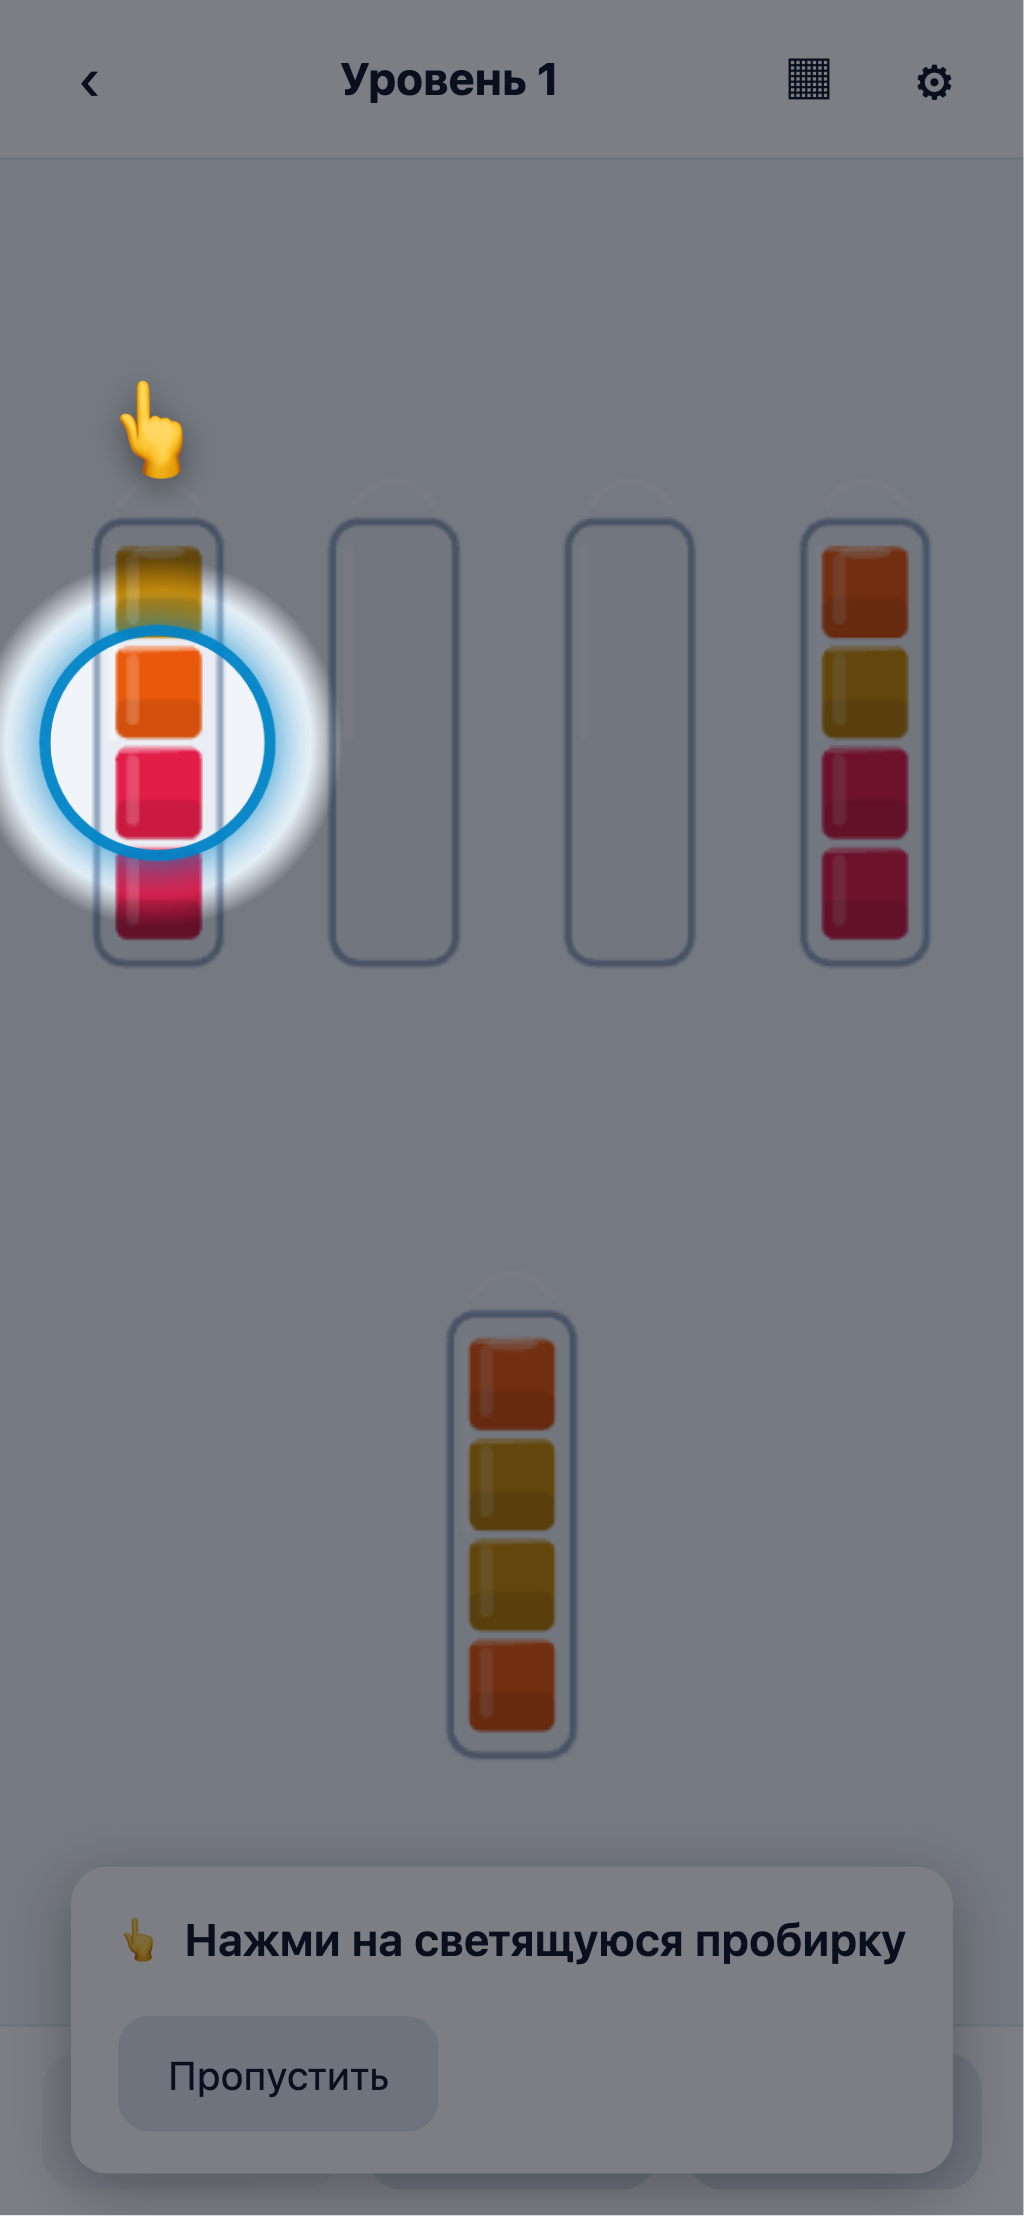
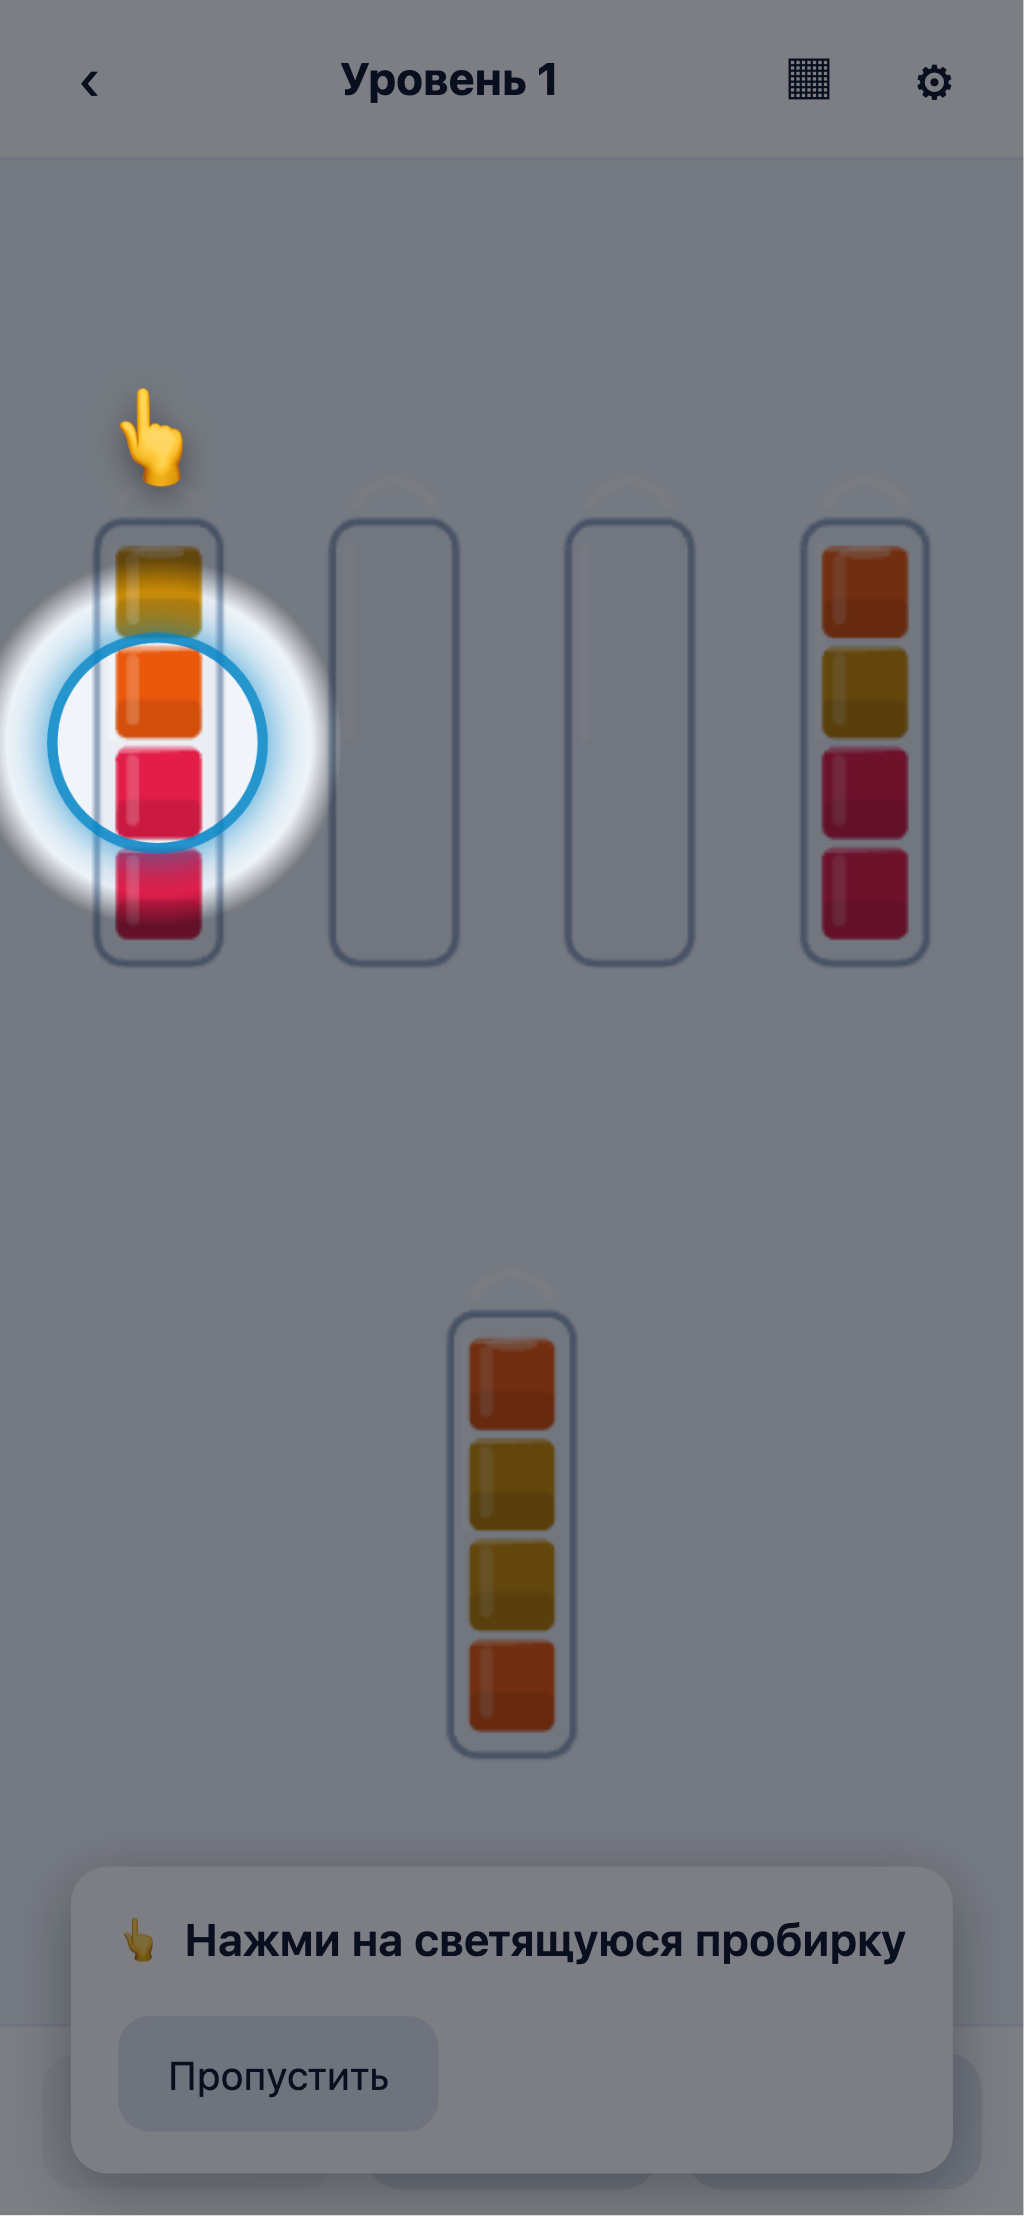
Per-unit pour animation (no teleport) + tap-during-animation queue chaining

Changed region(s): [[0.0, 0.2491, 0.2812, 0.4048], [0.125, 0.1868, 0.1875, 0.218]]

diff --git a/tests/e2e/queue-pour.spec.ts b/tests/e2e/queue-pour.spec.ts
@@ -1,0 +1,176 @@
+import { expect, test, type Page } from '@playwright/test';
+import { keyFor, mg, waitForGame } from './helpers';
+
+interface Dbg {
+  selected: number | null;
+  animating: boolean;
+  stage: string;
+  queued: { from: number; to: number } | null;
+  audit: { srcVisible: boolean; srcInBounds: boolean; streamOn: boolean } | null;
+}
+
+async function dbg(page: Page): Promise<Dbg> {
+  return page.evaluate(() => {
+    const g = (window as unknown as { __MG: { dbg: () => never } }).__MG;
+    return (g.dbg as unknown as () => Dbg)();
+  });
+}
+
+async function setup(page: Page): Promise<void> {
+  await page.goto('/');
+  await page.locator('.game-card .btn.primary').click();
+  await waitForGame(page, 1);
+  await page.locator('.tutorial-card .btn').first().click();
+}
+
+interface Cand {
+  f: number;
+  t: number;
+  run: number;
+}
+
+/** All currently legal pours with the moved-block count. */
+async function legalPours(page: Page): Promise<Cand[]> {
+  return page.evaluate(() => {
+    const s = (window as unknown as { __MG: { tubes: () => string[][] } }).__MG;
+    const tubes = s.tubes();
+    const top = (i: number): string | null => (tubes[i].length ? tubes[i][tubes[i].length - 1] : null);
+    const runLen = (i: number): number => {
+      const t = tubes[i];
+      const c = t[t.length - 1];
+      let n = 1;
+      for (let k = t.length - 2; k >= 0 && t[k] === c; k--) n++;
+      return n;
+    };
+    const out: Cand[] = [];
+    for (let f = 0; f < tubes.length; f++) {
+      const c = top(f);
+      if (!c || c === '?') continue;
+      for (let t = 0; t < tubes.length; t++) {
+        if (t === f || tubes[t].length >= 4) continue;
+        const dt = top(t);
+        if (dt && dt !== c) continue;
+        out.push({ f, t, run: Math.min(runLen(f), 4 - tubes[t].length) });
+      }
+    }
+    return out;
+  });
+}
+
+async function nonEmpty(page: Page, exclude: number[]): Promise<number> {
+  const tubes = (await mg(page)).tubes;
+  const i = tubes.findIndex((t, k) => t.length > 0 && !exclude.includes(k));
+  if (i < 0) throw new Error('no non-empty tube');
+  return i;
+}
+
+test('tap during animation selects immediately, queued pour chains', async ({ page }) => {
+  await setup(page);
+
+  const startPour = async (): Promise<void> => {
+    const c = (await legalPours(page))[0];
+    await page.keyboard.press(keyFor(c.f));
+    await page.keyboard.press(keyFor(c.t));
+    await expect.poll(async () => (await dbg(page)).animating, { timeout: 8000 }).toBe(true);
+  };
+
+  await startPour();
+
+  // 1. Selection applies mid-flight (no input swallowing).
+  const x = await nonEmpty(page, []);
+  await page.keyboard.press(keyFor(x));
+  expect(await dbg(page).then((d) => d.selected)).toBe(x);
+
+  // 2. A complete pair tapped mid-flight queues and executes after.
+  // Ensure a live animation window (slow machines may have settled already).
+  if (!(await dbg(page)).animating) await startPour();
+  // Deselect if a stale selection survived, so the queued pair is unambiguous.
+  const sel = (await dbg(page)).selected;
+  if (sel !== null) {
+    await page.keyboard.press(keyFor(sel));
+    expect(await dbg(page).then((d) => d.selected)).toBe(null);
+  }
+  const snapshot = (await mg(page)).tubes;
+  const h = (await mg(page)).historyLen;
+  const p2 = (await legalPours(page))[0];
+  await page.keyboard.press(keyFor(p2.f));
+  await page.keyboard.press(keyFor(p2.t));
+  // Either the pair queued mid-flight, or the flight had just ended and the
+  // pair executed as a normal pour — both prove no tap is ever swallowed.
+  await expect
+    .poll(
+      async () => {
+        const d = await dbg(page);
+        return d.queued !== null || (await mg(page)).historyLen === h + 1;
+      },
+      { timeout: 8000 },
+    )
+    .toBe(true);
+
+  await expect.poll(async () => (await mg(page)).historyLen, { timeout: 20000 }).toBe(h + 1);
+  await expect.poll(async () => (await mg(page)).animating, { timeout: 20000 }).toBe(false);
+
+  // 3. The chained move is a real logic move: undo restores the exact tubes.
+  await page.locator('.bottombar .action-btn').nth(0).click();
+  await expect.poll(async () => (await mg(page)).historyLen, { timeout: 8000 }).toBe(h);
+  expect((await mg(page)).tubes).toEqual(snapshot);
+});
+
+test('multi-block pour animates every block (no teleport)', async ({ page }) => {
+  await setup(page);
+  // Play a few opening moves until a multi-block pour becomes available.
+  let multi: Cand | undefined;
+  for (let i = 0; i < 6 && !multi; i++) {
+    multi = (await legalPours(page)).find((c) => c.run > 1);
+    if (!multi) {
+      const c = (await legalPours(page))[0];
+      await page.keyboard.press(keyFor(c.f));
+      await page.keyboard.press(keyFor(c.t));
+      await expect.poll(async () => (await mg(page)).animating, { timeout: 20000 }).toBe(false);
+    }
+  }
+  expect(multi, 'a multi-block pour must appear within the opening').toBeDefined();
+  const { f, t, run } = multi!;
+  const srcBefore = (await mg(page)).tubes[f].length;
+  const dstBefore = (await mg(page)).tubes[t].length;
+
+  const timed = page.evaluate(
+    () =>
+      new Promise<{ stages: string[]; pourMs: number }>((resolve) => {
+        const get = () => (window as unknown as { __MG: { dbg: () => { stage: string } } }).__MG.dbg().stage;
+        const stages: string[] = [];
+        let last = 'idle';
+        let pourStart = 0;
+        let pourMs = 0;
+        const t0 = performance.now();
+        const tick = () => {
+          const s = get();
+          if (s !== last) {
+            stages.push(s);
+            const now = performance.now();
+            if (s === 'pour') pourStart = now;
+            if (last === 'pour') pourMs += now - pourStart;
+            last = s;
+          }
+          if ((s === 'idle' && stages.length > 0) || performance.now() - t0 > 15000) {
+            resolve({ stages, pourMs });
+          } else requestAnimationFrame(tick);
+        };
+        requestAnimationFrame(tick);
+      }),
+  );
+  await page.keyboard.press(keyFor(f));
+  await page.keyboard.press(keyFor(t));
+  const { stages, pourMs } = await timed;
+
+  // Every block gets its own visible pour window (~unitMs each, min 160ms).
+  expect(pourMs).toBeGreaterThanOrEqual(run * 140);
+  expect(stages).toContain('pour');
+
+  await expect.poll(async () => (await mg(page)).animating, { timeout: 20000 }).toBe(false);
+  const after = (await mg(page)).tubes;
+  expect(srcBefore - after[f].length).toBe(run);
+  expect(after[t].length - dstBefore).toBe(run);
+  const audit = (await dbg(page)).audit;
+  expect(audit?.srcVisible).toBe(true);
+});

diff --git a/src/games/water-sort/game.ts b/src/games/water-sort/game.ts
@@ -20,7 +20,7 @@ import type { GeneratedPuzzle } from './generation/generator';
 import { speedMs } from '../../platform/settings/store';
 import { AudioEngine, vibrate } from '../../audio/engine';
 import { button, confirmDialog, el, modal, toast } from '../../platform/ui/ui';
-import { SortScene, type ViewLayer } from './presentation/scene';
+import { SortScene, pourAnimTotal, type ViewLayer } from './presentation/scene';
 import type { GameContext, GameHandle } from '../../platform/games/registry';
 import type { WaterSortSessionSave } from '../../platform/storage/save';
 
@@ -56,6 +56,8 @@ export class WaterSortGame implements GameHandle {
   private audio = new AudioEngine();
   private selected: number | null = null;
   private animating = false;
+  /** Pour tapped while another pour is still animating; chained on completion. */
+  private queuedPour: { from: number; to: number } | null = null;
   private disposed = false;
   private webglOk = false;
   private onKey = (e: KeyboardEvent) => this.handleKey(e);
@@ -261,12 +263,21 @@ export class WaterSortGame implements GameHandle {
   }
 
   private async onTap(i: number): Promise<void> {
-    if (this.animating || this.disposed || !this.webglOk || this.modalOpen()) return;
+    if (this.disposed || !this.webglOk || this.modalOpen()) return;
     if (this.tut && (this.tut.awaiting === 'select' || this.tut.awaiting === 'pour')) {
+      // Scripted tutorial: the animation must finish first so each step
+      // stays observable; wrong taps still get feedback as before.
       if (this.tut.expectTube !== i) {
         this.wrongTap(i);
         return;
       }
+      if (this.animating) return;
+    } else if (this.animating) {
+      // Free play: taps during a pour are not swallowed — selection applies
+      // immediately against the already-updated session, a second tap queues
+      // the next pour and chains automatically when the flight finishes.
+      this.tapDuringAnimation(i);
+      return;
     }
     this.audio.unlock();
     if (this.selected === null) {
@@ -285,6 +296,31 @@ export class WaterSortGame implements GameHandle {
     }
     const from = this.selected;
     await this.tryPour(from, i);
+  }
+
+  /**
+   * Free-play tap while a pour is animating. The session is already updated
+   * synchronously at pour start, so selection can apply immediately; a
+   * complete from→to pair is queued and chained when the flight finishes.
+   */
+  private tapDuringAnimation(i: number): void {
+    this.audio.unlock();
+    if (this.selected === null) {
+      if (this.session.tubes[i].layers.length === 0) return;
+      this.selected = i;
+      this.scene?.setSelected(i);
+      this.audio.select();
+      return;
+    }
+    if (this.selected === i) {
+      this.selected = null;
+      this.scene?.setSelected(null);
+      this.queuedPour = null;
+      this.audio.ui();
+      return;
+    }
+    this.queuedPour = { from: this.selected, to: i };
+    this.audio.select();
   }
 
   private snapshotView(): ViewLayer[][] {
@@ -306,7 +342,7 @@ export class WaterSortGame implements GameHandle {
     this.animating = true;
     this.refreshChrome();
     const dur = speedMs(this.ctx.settings).pour;
-    this.audio.pour(dur / 1000);
+    this.audio.pour(pourAnimTotal(res.move.count, dur) / 1000);
     if (this.ctx.settings.vibration) vibrate(12);
     const fromBefore = before[from];
     const toBefore = before[to];
@@ -326,6 +362,10 @@ export class WaterSortGame implements GameHandle {
       this.advanceTutorial();
     }
     this.checkWin();
+    // Chain a pour tapped mid-flight (dropped when the win modal is up).
+    const qp = this.queuedPour;
+    this.queuedPour = null;
+    if (qp && !this.disposed && !this.modalOpen()) await this.tryPour(qp.from, qp.to);
   }
 
   private updateCompleted(): void {
@@ -348,6 +388,7 @@ export class WaterSortGame implements GameHandle {
       }
     }
     if (!undoSession(this.session)) return;
+    this.queuedPour = null;
     this.clearHint();
     this.audio.ui();
     this.scene?.render();
@@ -378,6 +419,7 @@ export class WaterSortGame implements GameHandle {
       if (!ok) return;
     }
     restartSession(this.session);
+    this.queuedPour = null;
     this.clearHint();
     this.audio.ui();
     this.scene?.render();
@@ -896,7 +938,9 @@ export class WaterSortGame implements GameHandle {
   }
 
   private handleKey(e: KeyboardEvent): void {
-    if (this.disposed || this.animating || this.modalOpen()) return;
+    // Taps are routed to onTap even mid-animation: free-play taps queue the
+    // next pour instead of being swallowed (see tapDuringAnimation).
+    if (this.disposed || this.modalOpen()) return;
     if (e.key === 'Escape') {
       this.selected = null;
       this.scene?.setSelected(null);
@@ -1003,6 +1047,7 @@ export class WaterSortGame implements GameHandle {
           : null,
         stage: this.scene?.stage ?? 'idle',
         audit: this.scene?.lastAudit ?? null,
+        queued: this.queuedPour,
       }),
     };
   }

diff --git a/src/games/water-sort/presentation/scene.ts b/src/games/water-sort/presentation/scene.ts
@@ -36,6 +36,16 @@ export type { TubeLayout };
 
 export type PourStage = 'idle' | 'lift' | 'move' | 'tilt' | 'pour' | 'return' | 'settle';
 
+/**
+ * Total flight time for a pour of `count` blocks: the base flight plus one
+ * extra unit window per additional block, so every block gets visible pour
+ * time instead of being teleported.
+ */
+export function pourAnimTotal(count: number, durMs: number): number {
+  const unitMs = Math.max(160, Math.min(420, durMs * 0.5));
+  return durMs + 560 + Math.max(0, count - 1) * unitMs;
+}
+
 export interface PourAudit {
   /** The source container stayed visible for the whole pour phase. */
   srcVisible: boolean;
@@ -381,7 +391,6 @@ export class SortScene extends Phaser.Scene {
     const fGeom = this.tubeGeom(fromIdx);
     const tGeom = this.tubeGeom(toIdx);
     const moved = fromBefore.slice(-count);
-    const tgtShown = toBefore.concat(moved);
     const topHidden = moved.length > 0 && moved[moved.length - 1].hidden;
     const pourColor = moved.length > 0 && !topHidden
       ? paletteColor(moved[moved.length - 1].color, theme)
@@ -401,7 +410,7 @@ export class SortScene extends Phaser.Scene {
     this.lastAudit = null;
     this.stage = 'lift';
     const phase = { p: 0 };
-    const total = durMs + 560;
+    const total = pourAnimTotal(count, durMs);
     // Target keeps its pre-move picture until the pour phase.
     this.drawLiquid(t.liquid, tGeom.tubeW, tGeom.tubeH, toBefore, theme, 1, 0);
 
@@ -464,9 +473,37 @@ export class SortScene extends Phaser.Scene {
                   : 'move'
                 : 'tilt'
               : 'tilt';
-        this.drawLiquid(f.liquid, fGeom.tubeW, fGeom.tubeH, fromBefore, theme, 1 - pourP, wob);
-        this.drawLiquid(t.liquid, tGeom.tubeW, tGeom.tubeH, tgtShown, theme, pourP, wob * 0.7);
-        const sw = pourP > 0 && pourP < 1 ? 5 + Math.sin(pourP * Math.PI) * 5 : 0;
+        // Per-unit progress: each block visibly drains from the source and
+        // grows in the target before the next one starts (no teleporting).
+        const uc = Math.min(count, pourP * count);
+        const k = Math.min(count, Math.floor(uc));
+        const frac = uc - k;
+        const n = fromBefore.length;
+        let srcShown: ViewLayer[];
+        let srcFrac: number;
+        if (frac <= 0.001) {
+          srcShown = fromBefore.slice(0, Math.max(0, n - k));
+          srcFrac = 1;
+        } else {
+          srcShown = fromBefore.slice(0, Math.max(0, n - k));
+          srcFrac = 1 - frac;
+        }
+        const dstFull = toBefore.concat(moved.slice(0, k));
+        let dstShown: ViewLayer[];
+        let dstFrac: number;
+        if (frac > 0.001 && k < moved.length) {
+          dstShown = dstFull.concat([moved[k]]);
+          dstFrac = frac;
+        } else {
+          dstShown = dstFull;
+          dstFrac = 1;
+        }
+        this.drawLiquid(f.liquid, fGeom.tubeW, fGeom.tubeH, srcShown, theme, srcFrac, wob);
+        this.drawLiquid(t.liquid, tGeom.tubeW, tGeom.tubeH, dstShown, theme, dstFrac, wob * 0.7);
+        // Stream pulses once per block with a visible gap at unit boundaries.
+        const sw = pourP > 0 && pourP < 1 && frac > 0.02 && frac < 0.98
+          ? 5 + Math.sin(frac * Math.PI) * 5
+          : 0;
         drawStream(pourP * 10, sw);
         if (pourP > 0.15 && pourP < 0.85 && !this.lastAudit) {
           const hw = sw / 2;
